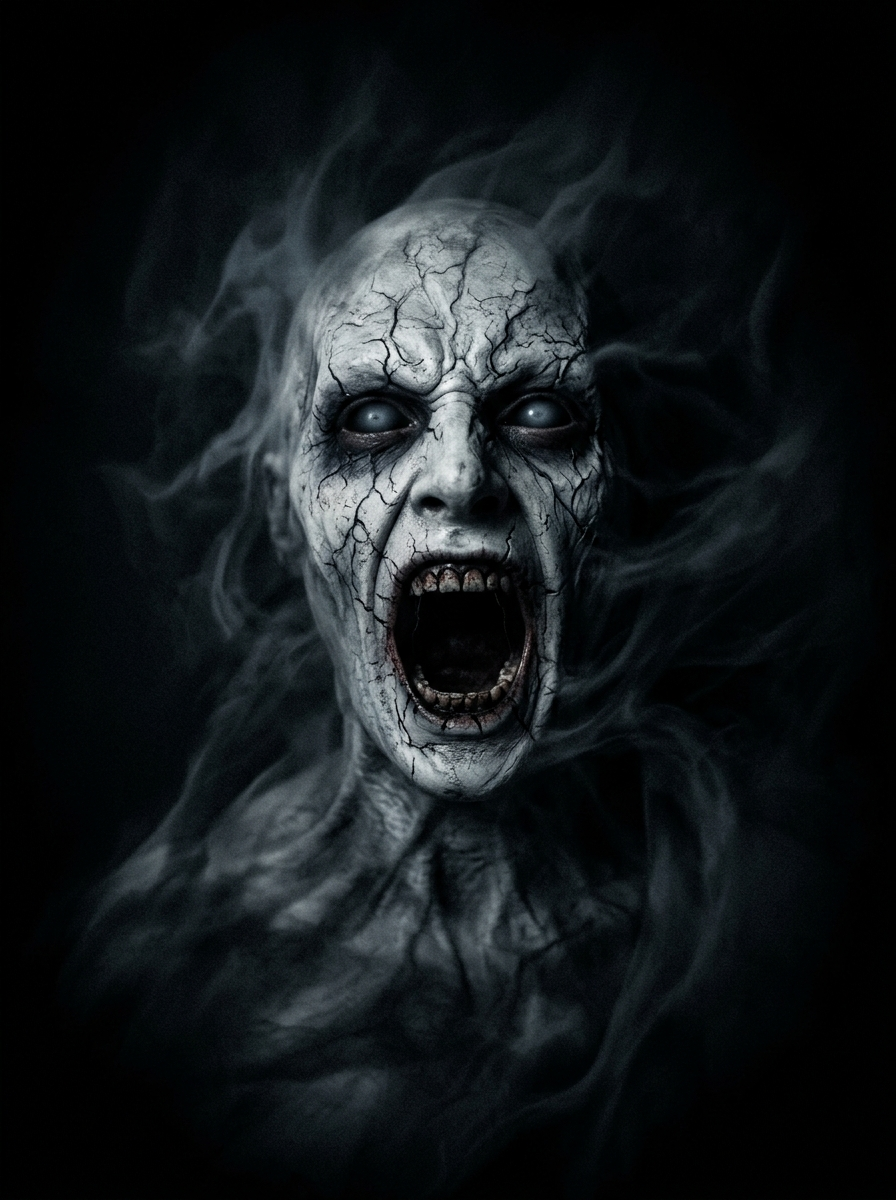
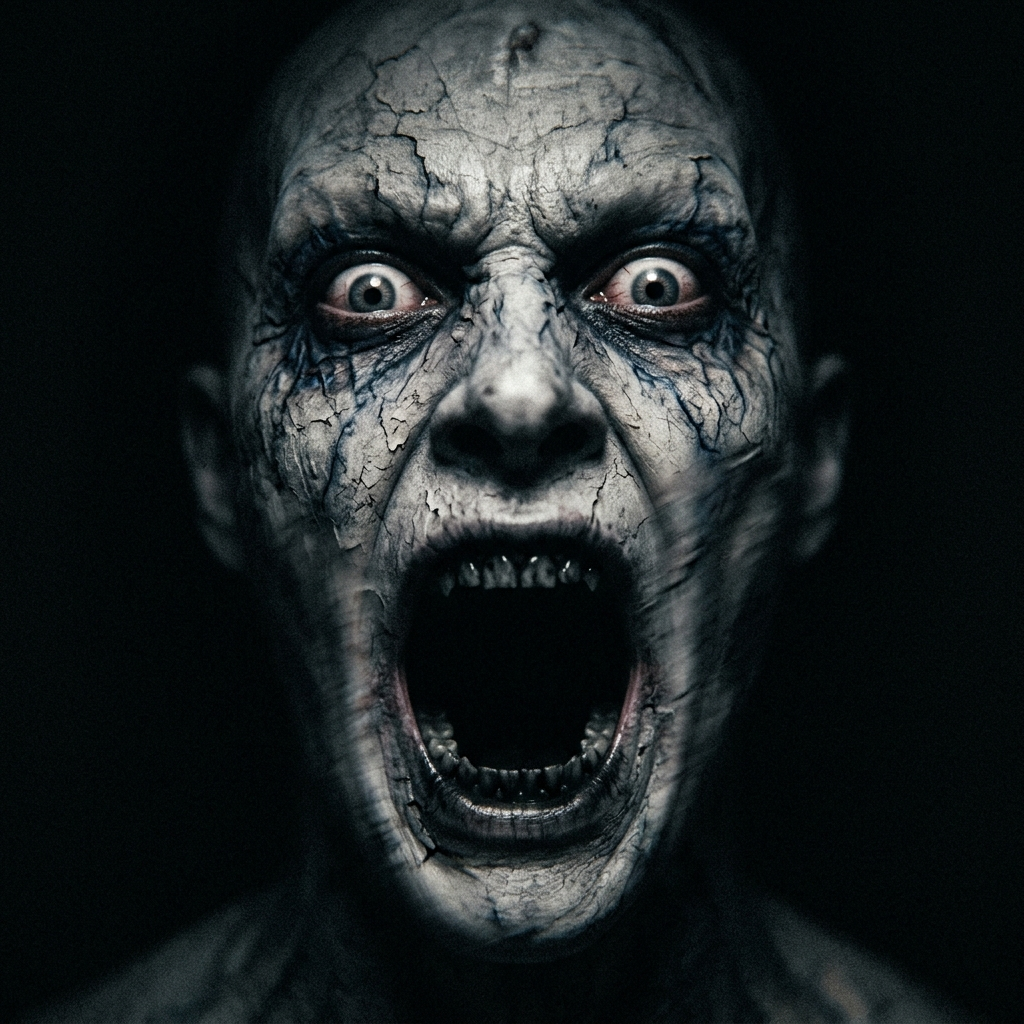
feat: ojos con imagenes individuales independientes y optimizacion latencia audio scream

diff --git a/src/main/resources/es/medac/littledumbduck/tunel/estilos.css b/src/main/resources/es/medac/littledumbduck/tunel/estilos.css
@@ -19,9 +19,8 @@
     -fx-effect: dropshadow(three-pass-box, #1a0000, 30, 0.8, 0, 0);
 }
 
-.pupila-terror {
-    -fx-fill: #ff1a1a;
-    -fx-effect: dropshadow(gaussian, #ffffff, 12, 0.9, 0, 0);
+.imagen-ojo {
+    -fx-effect: dropshadow(gaussian, #ff2222, 14, 0.85, 0, 0);
 }
 
 .capa-niebla {

diff --git a/src/main/java/es/medac/littledumbduck/tunel/SalaController.java b/src/main/java/es/medac/littledumbduck/tunel/SalaController.java
@@ -26,8 +26,8 @@ import javafx.util.Duration;
 /**
  * Controlador para la Sala 4: El Espejo (Túnel del Terror).
  * - Espejo a gran escala ocupando casi toda la pantalla.
- * - Rostro reflejado con ojos cuyas pupilas siguen el cursor del ratón en tiempo real.
- * - Susto repentino e instantáneo (pantalla completa sin transición) con sonido durante 5 segundos.
+ * - Rostro reflejado con ojos (imágenes individuales) que siguen el cursor del ratón en tiempo real.
+ * - Susto repentino e instantáneo (pantalla completa sin transición) con sonido inmediato durante 5 segundos.
  * - Entrega posterior de la letra secreta "D" con animación de latido.
  * - Temporizador de piedad (60s) y autorreinicio (o mediante tecla F12).
  */
@@ -46,8 +46,8 @@ public class SalaController {
     @FXML private StackPane contenedorRostro;
     @FXML private ImageView imgRostroEspejo;
     @FXML private Pane panelOjos;
-    @FXML private Circle pupilaIzquierda;
-    @FXML private Circle pupilaDerecha;
+    @FXML private ImageView imgOjoIzquierdo;
+    @FXML private ImageView imgOjoDerecho;
     @FXML private StackPane capaNiebla;
     @FXML private Label lblTitulo;
     @FXML private Label lblInstruccion;
@@ -79,8 +79,8 @@ public class SalaController {
 
     private boolean resuelto = false;
 
-    // Radio máximo de movimiento de la pupila dentro de la cuenca del ojo
-    private static final double RADIO_MAX_PUPILA = 7.5;
+    // Radio máximo de desplazamiento del globo ocular dentro de la cuenca
+    private static final double RADIO_MAX_OJO = 8.0;
     // Sensibilidad del seguimiento de la mirada
     private static final double FACTOR_DISTANCIA = 0.025;
     // Duración del scream solicitada (5 segundos)
@@ -120,7 +120,7 @@ public class SalaController {
     }
 
     /**
-     * Carga de imágenes: espejo, rostro de reflejo con ojos interactivos, y scream para susto.
+     * Carga de imágenes: espejo, rostro de reflejo, ojos individuales e imagen del susto.
      */
     private void cargarImagenes() {
         try {
@@ -132,6 +132,19 @@ public class SalaController {
             InputStream rostroStream = getClass().getResourceAsStream("images/rostro_espejo.png");
             if (rostroStream != null) {
                 imgRostroEspejo.setImage(new Image(rostroStream));
+            }
+
+            // Carga de la imagen de los ojos que siguen el cursor
+            InputStream ojoStream = getClass().getResourceAsStream("images/ojo_terror.png");
+            if (ojoStream != null) {
+                Image ojoImg = new Image(ojoStream);
+                imgOjoIzquierdo.setImage(ojoImg);
+                imgOjoDerecho.setImage(ojoImg);
+
+                // Recorte circular perfecto para los globos oculares
+                double radio = 19.0;
+                imgOjoIzquierdo.setClip(new Circle(radio, radio, radio));
+                imgOjoDerecho.setClip(new Circle(radio, radio, radio));
             }
 
             InputStream jumpscareStream = getClass().getResourceAsStream("images/reflejo_espectro.png");
@@ -157,9 +170,9 @@ public class SalaController {
     }
 
     /**
-     * Lógica interactiva de seguimiento ocular:
+     * Lógica interactiva de seguimiento ocular con imágenes:
      * Calcula el ángulo entre cada ojo y la posición del cursor del ratón en la ventana,
-     * orientando las pupilas en tiempo real hacia donde mira el visitante.
+     * orientando las imágenes de los ojos en tiempo real hacia donde mira el visitante.
      */
     private void configurarSeguimientoOjos() {
         raiz.setOnMouseMoved(event -> {
@@ -169,23 +182,26 @@ public class SalaController {
             double mouseX = event.getSceneX();
             double mouseY = event.getSceneY();
 
-            actualizarPupila(pupilaIzquierda, mouseX, mouseY);
-            actualizarPupila(pupilaDerecha, mouseX, mouseY);
+            actualizarOjo(imgOjoIzquierdo, mouseX, mouseY);
+            actualizarOjo(imgOjoDerecho, mouseX, mouseY);
         });
     }
 
-    private void actualizarPupila(Circle pupila, double mouseX, double mouseY) {
+    private void actualizarOjo(ImageView imgOjo, double mouseX, double mouseY) {
         try {
-            Point2D centroOjoEscena = pupila.localToScene(pupila.getCenterX(), pupila.getCenterY());
+            double mitadAncho = imgOjo.getFitWidth() / 2.0;
+            double mitadAlto = imgOjo.getFitHeight() / 2.0;
+            Point2D centroOjoEscena = imgOjo.localToScene(mitadAncho, mitadAlto);
+
             double dx = mouseX - centroOjoEscena.getX();
             double dy = mouseY - centroOjoEscena.getY();
             double angulo = Math.atan2(dy, dx);
-            double distancia = Math.min(RADIO_MAX_PUPILA, Math.hypot(dx, dy) * FACTOR_DISTANCIA);
+            double distancia = Math.min(RADIO_MAX_OJO, Math.hypot(dx, dy) * FACTOR_DISTANCIA);
 
-            pupila.setTranslateX(Math.cos(angulo) * distancia);
-            pupila.setTranslateY(Math.sin(angulo) * distancia);
+            imgOjo.setTranslateX(Math.cos(angulo) * distancia);
+            imgOjo.setTranslateY(Math.sin(angulo) * distancia);
         } catch (Exception ignored) {
-            // Protección ante layout inicial
+            // Protección ante inicialización de escena
         }
     }
 
@@ -217,6 +233,8 @@ public class SalaController {
             if (sustoUrl != null) {
                 audioClipSusto = new AudioClip(sustoUrl.toExternalForm());
                 audioClipSusto.setVolume(1.0);
+                // Precalentar el buffer de sonido a volumen 0 para eliminar latencia
+                audioClipSusto.play(0.0);
             }
         } catch (Exception e) {
             System.err.println("Aviso audio susto: " + e.getMessage());
@@ -258,23 +276,23 @@ public class SalaController {
 
     /**
      * Susto repentino e instantáneo:
+     * - Disparo de audio en el milisegundo 0 (adelantado y sin latencia).
      * - CAMBIO DE PANTALLA DE GOLPE SIN TRANSICIÓN a pantalla completa.
-     * - Reproducción inmediata del sonido del scream.
      * - Se mantiene durante ~5 segundos antes de mostrar la letra 'D'.
      */
     public void ejecutarSustoRepentino() {
         resuelto = true;
         detenerTemporizadores();
 
-        // 1. Cambio súbito de pantalla (sin transición gradual)
-        capaEspejo.setVisible(false);
-        capaLetra.setVisible(false);
-        capaJumpscare.setVisible(true);
-
-        // 2. Reproducción inmediata del scream
+        // 1. DISPARAR AUDIO INMEDIATAMENTE EN EL MILISEGUNDO 0
         if (audioClipSusto != null) {
             audioClipSusto.play();
         }
+
+        // 2. Cambio súbito de pantalla (sin transición gradual)
+        capaEspejo.setVisible(false);
+        capaLetra.setVisible(false);
+        capaJumpscare.setVisible(true);
 
         // 3. Duración de 5 segundos de scream antes de entregar la letra "D"
         temporizadorScream = new PauseTransition(Duration.seconds(SEGUNDOS_SCREAM));
@@ -321,11 +339,11 @@ public class SalaController {
         capaLetra.setVisible(false);
         capaEspejo.setVisible(true);
 
-        // Resetear pupilas
-        pupilaIzquierda.setTranslateX(0);
-        pupilaIzquierda.setTranslateY(0);
-        pupilaDerecha.setTranslateX(0);
-        pupilaDerecha.setTranslateY(0);
+        // Resetear ojos
+        imgOjoIzquierdo.setTranslateX(0);
+        imgOjoIzquierdo.setTranslateY(0);
+        imgOjoDerecho.setTranslateX(0);
+        imgOjoDerecho.setTranslateY(0);
 
         txtEntrada.clear();
         lblMensajeEstado.setText("");
